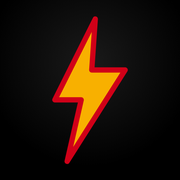
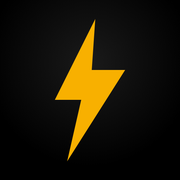
Move lightning bolt into the wordmark as the O in STORM, drop red stroke
Header now reads ST[bolt]RM instead of [bolt] STORM, with the bolt
sized/aligned to sit like a letter. Also removed the red outline
stroke from the bolt shape (gold fill only) per Jason's request —
regenerated the app icons from the same updated SVG for consistency.

Changed region(s): [[0.2778, 0.0833, 0.7222, 0.9167]]

diff --git a/css/style.css b/css/style.css
@@ -44,8 +44,6 @@ html, body {
 
 .topbar-brand { display: flex; align-items: center; gap: 8px; }
 
-.topbar-brand img { height: 26px; width: 26px; }
-
 .topbar h1 {
   margin: 0;
   font-family: var(--jersey-font);
@@ -54,6 +52,13 @@ html, body {
   letter-spacing: 0.1em;
   color: var(--accent);
   -webkit-text-stroke: 1px var(--red-dim);
+}
+
+.topbar h1 .bolt-o {
+  height: 0.95em;
+  width: auto;
+  vertical-align: -0.1em;
+  margin: 0 -0.03em;
 }
 
 .topbar-actions { display: flex; gap: 10px; }

diff --git a/index.html b/index.html
@@ -17,8 +17,7 @@
 
 <header class="topbar">
   <div class="topbar-brand">
-    <img src="icons/lightning.svg" alt="">
-    <h1>STORM</h1>
+    <h1>ST<img src="icons/lightning.svg" alt="O" class="bolt-o">RM</h1>
   </div>
   <div class="topbar-actions">
     <button id="btn-clear-lineup" class="icon-btn" title="Clear Lineup">Clear</button>
